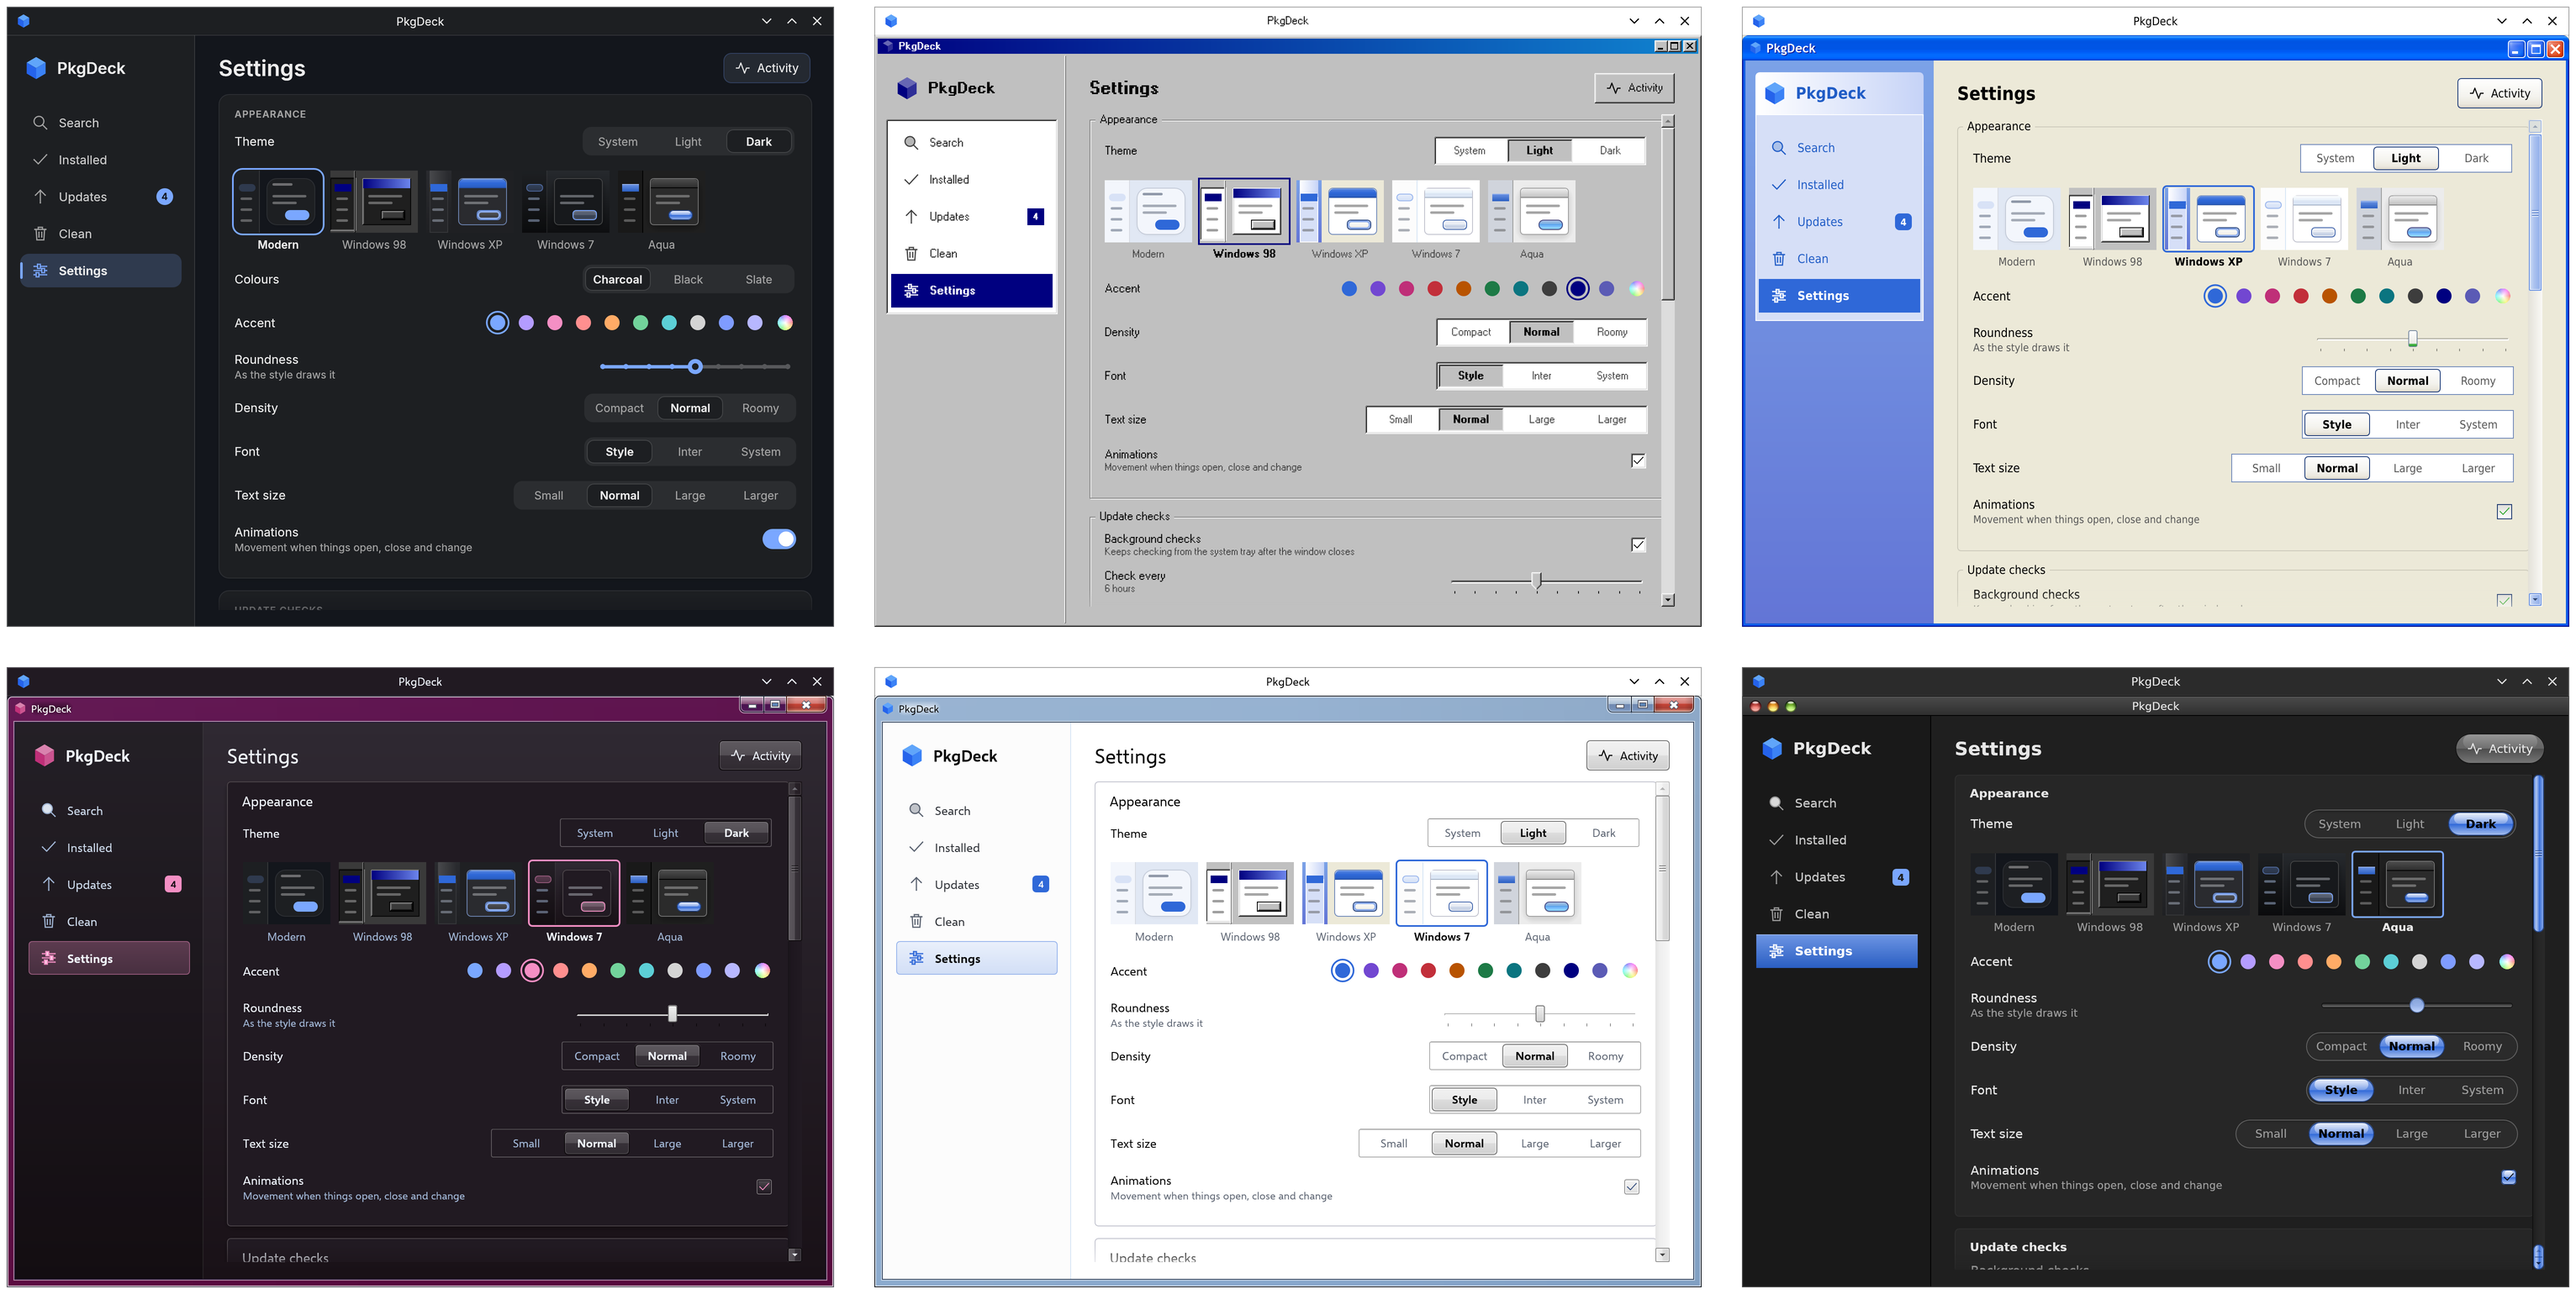
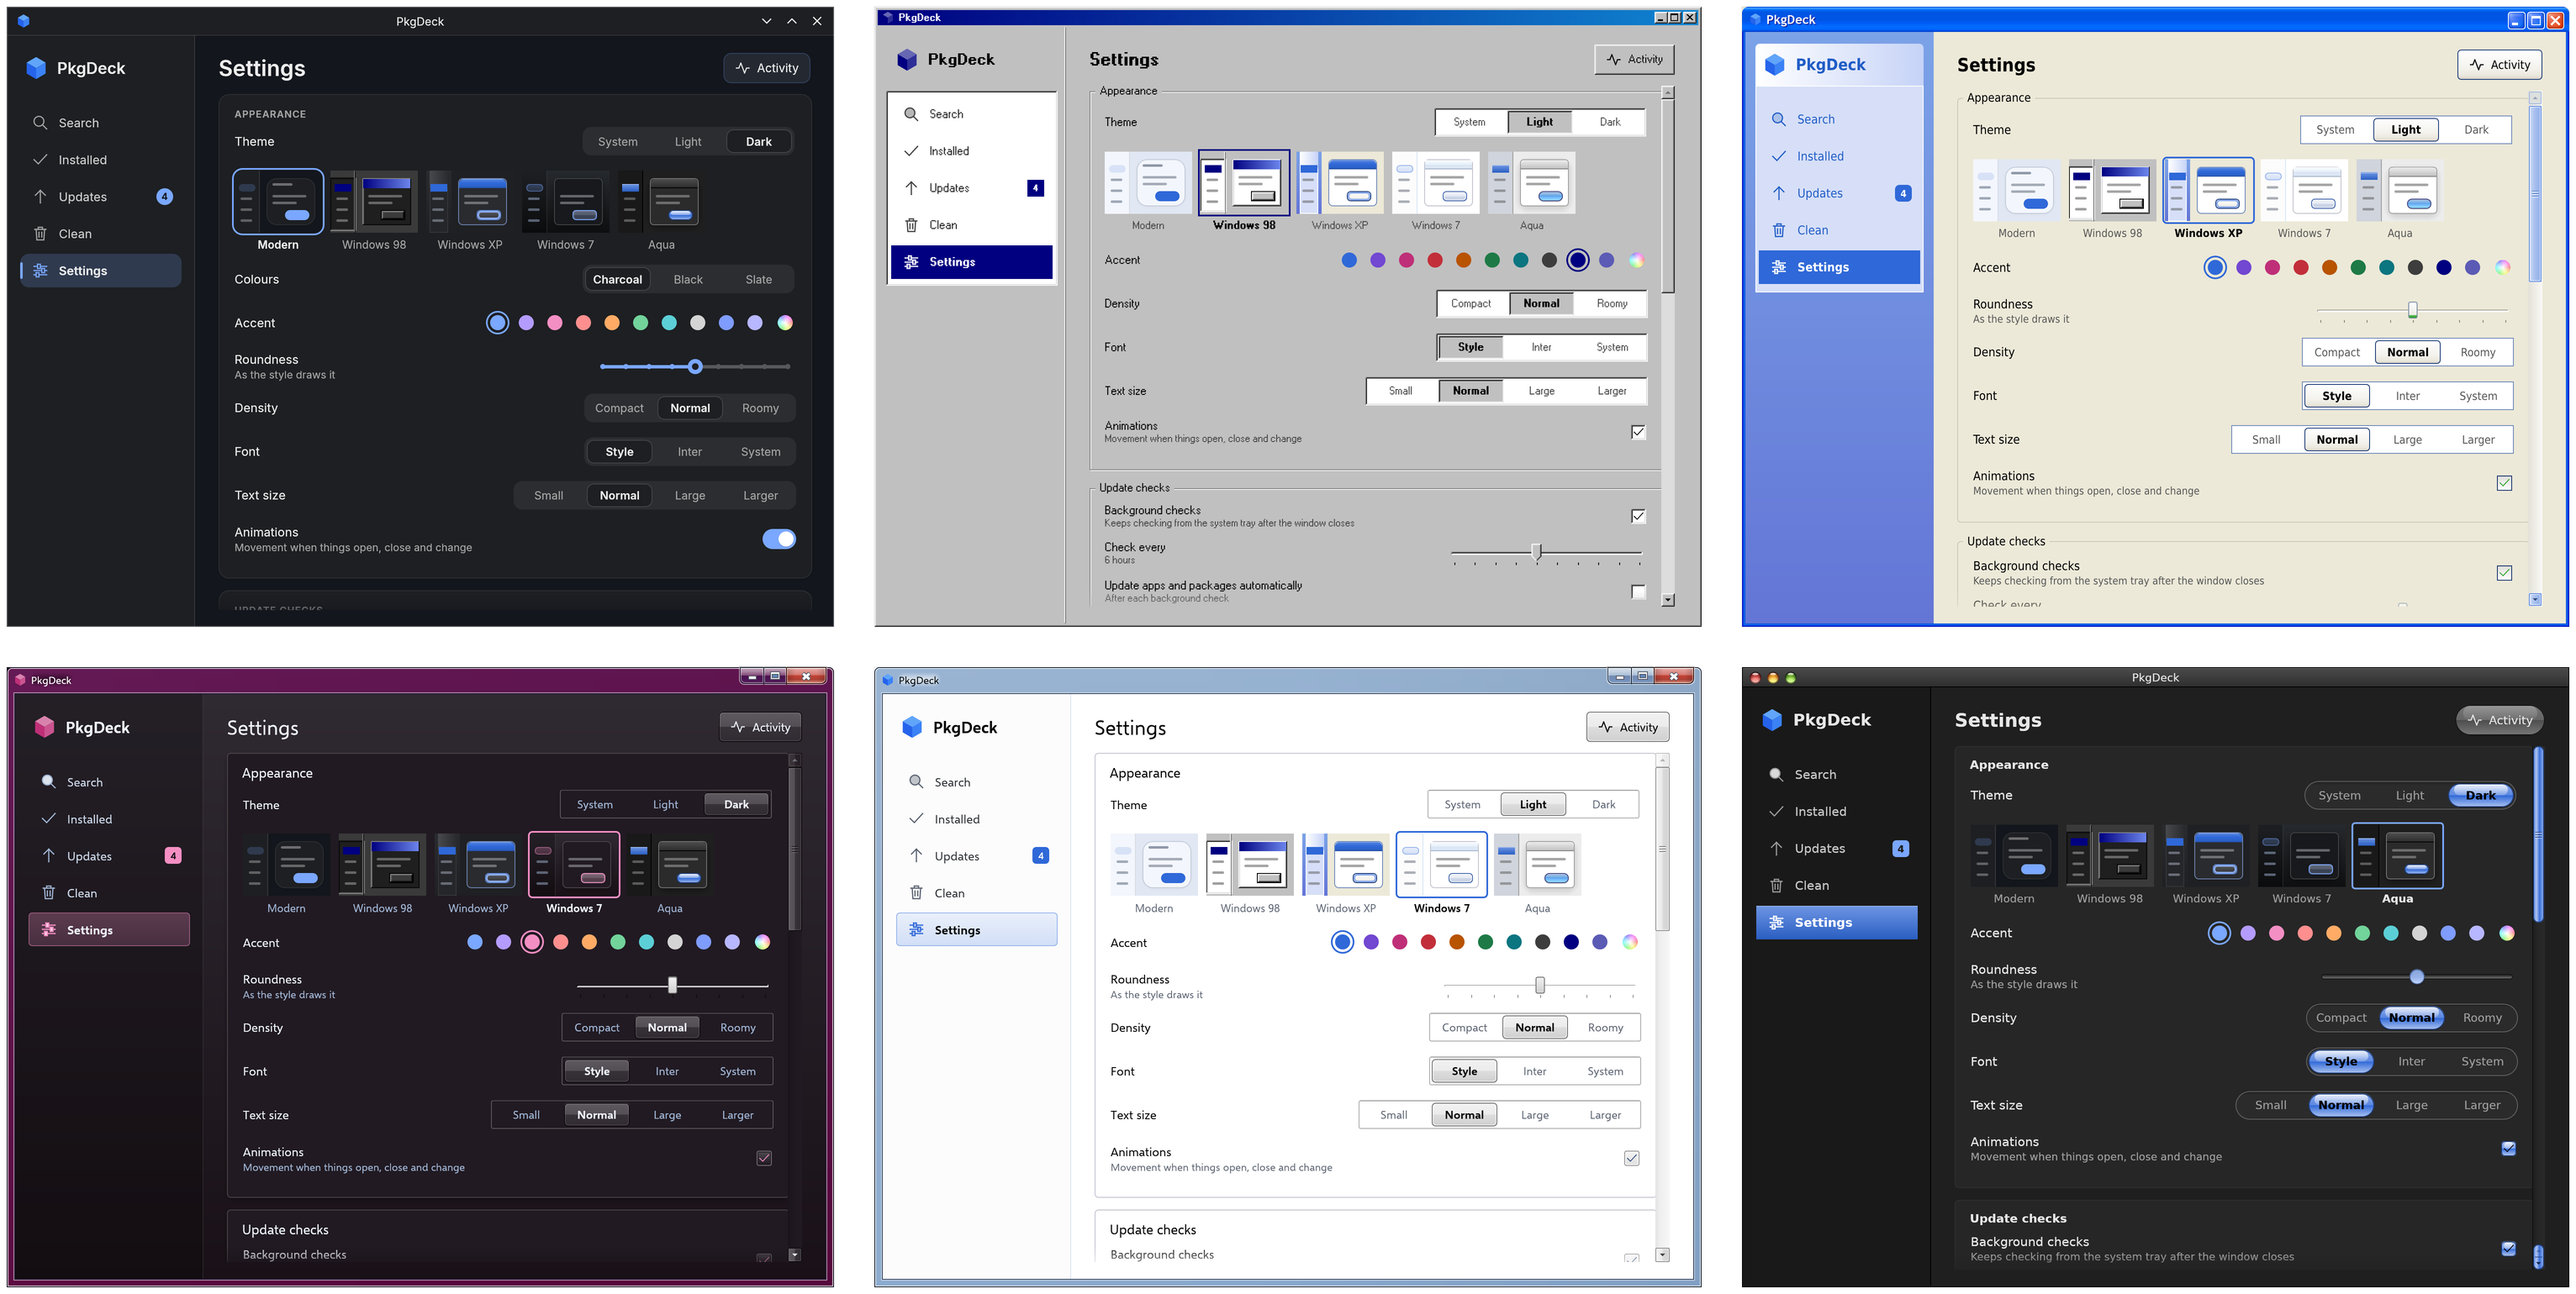
README grid: styles with their own frame no longer get a second title bar

diff --git a/crates/pkgdeck/examples/screenshots.rs b/crates/pkgdeck/examples/screenshots.rs
@@ -217,6 +217,9 @@ fn capture(size: [f32; 2], prepare: impl FnOnce(&mut App)) -> image::RgbaImage {
     let mut app = app();
     prepare(&mut app);
     app.invalidate();
+    // The older styles draw their own title bar; only Modern leaves it to
+    // the system, so only there does the harness add one.
+    let framed = app.settings.style.family() != pkgdeck::settings::Family::Modern;
     let mut harness = Harness::builder()
         .with_size(egui::vec2(size[0], size[1] + TITLE_BAR))
         .with_pixels_per_point(2.0)
@@ -229,6 +232,10 @@ fn capture(size: [f32; 2], prepare: impl FnOnce(&mut App)) -> image::RgbaImage {
                     return;
                 }
                 let full = ui.max_rect();
+                if framed {
+                    pkgdeck::ui::show(app, ui);
+                    return;
+                }
                 let bar = egui::Rect::from_min_size(full.min, egui::vec2(full.width(), TITLE_BAR));
                 let body =
                     egui::Rect::from_min_max(egui::pos2(full.left(), bar.bottom()), full.max);
